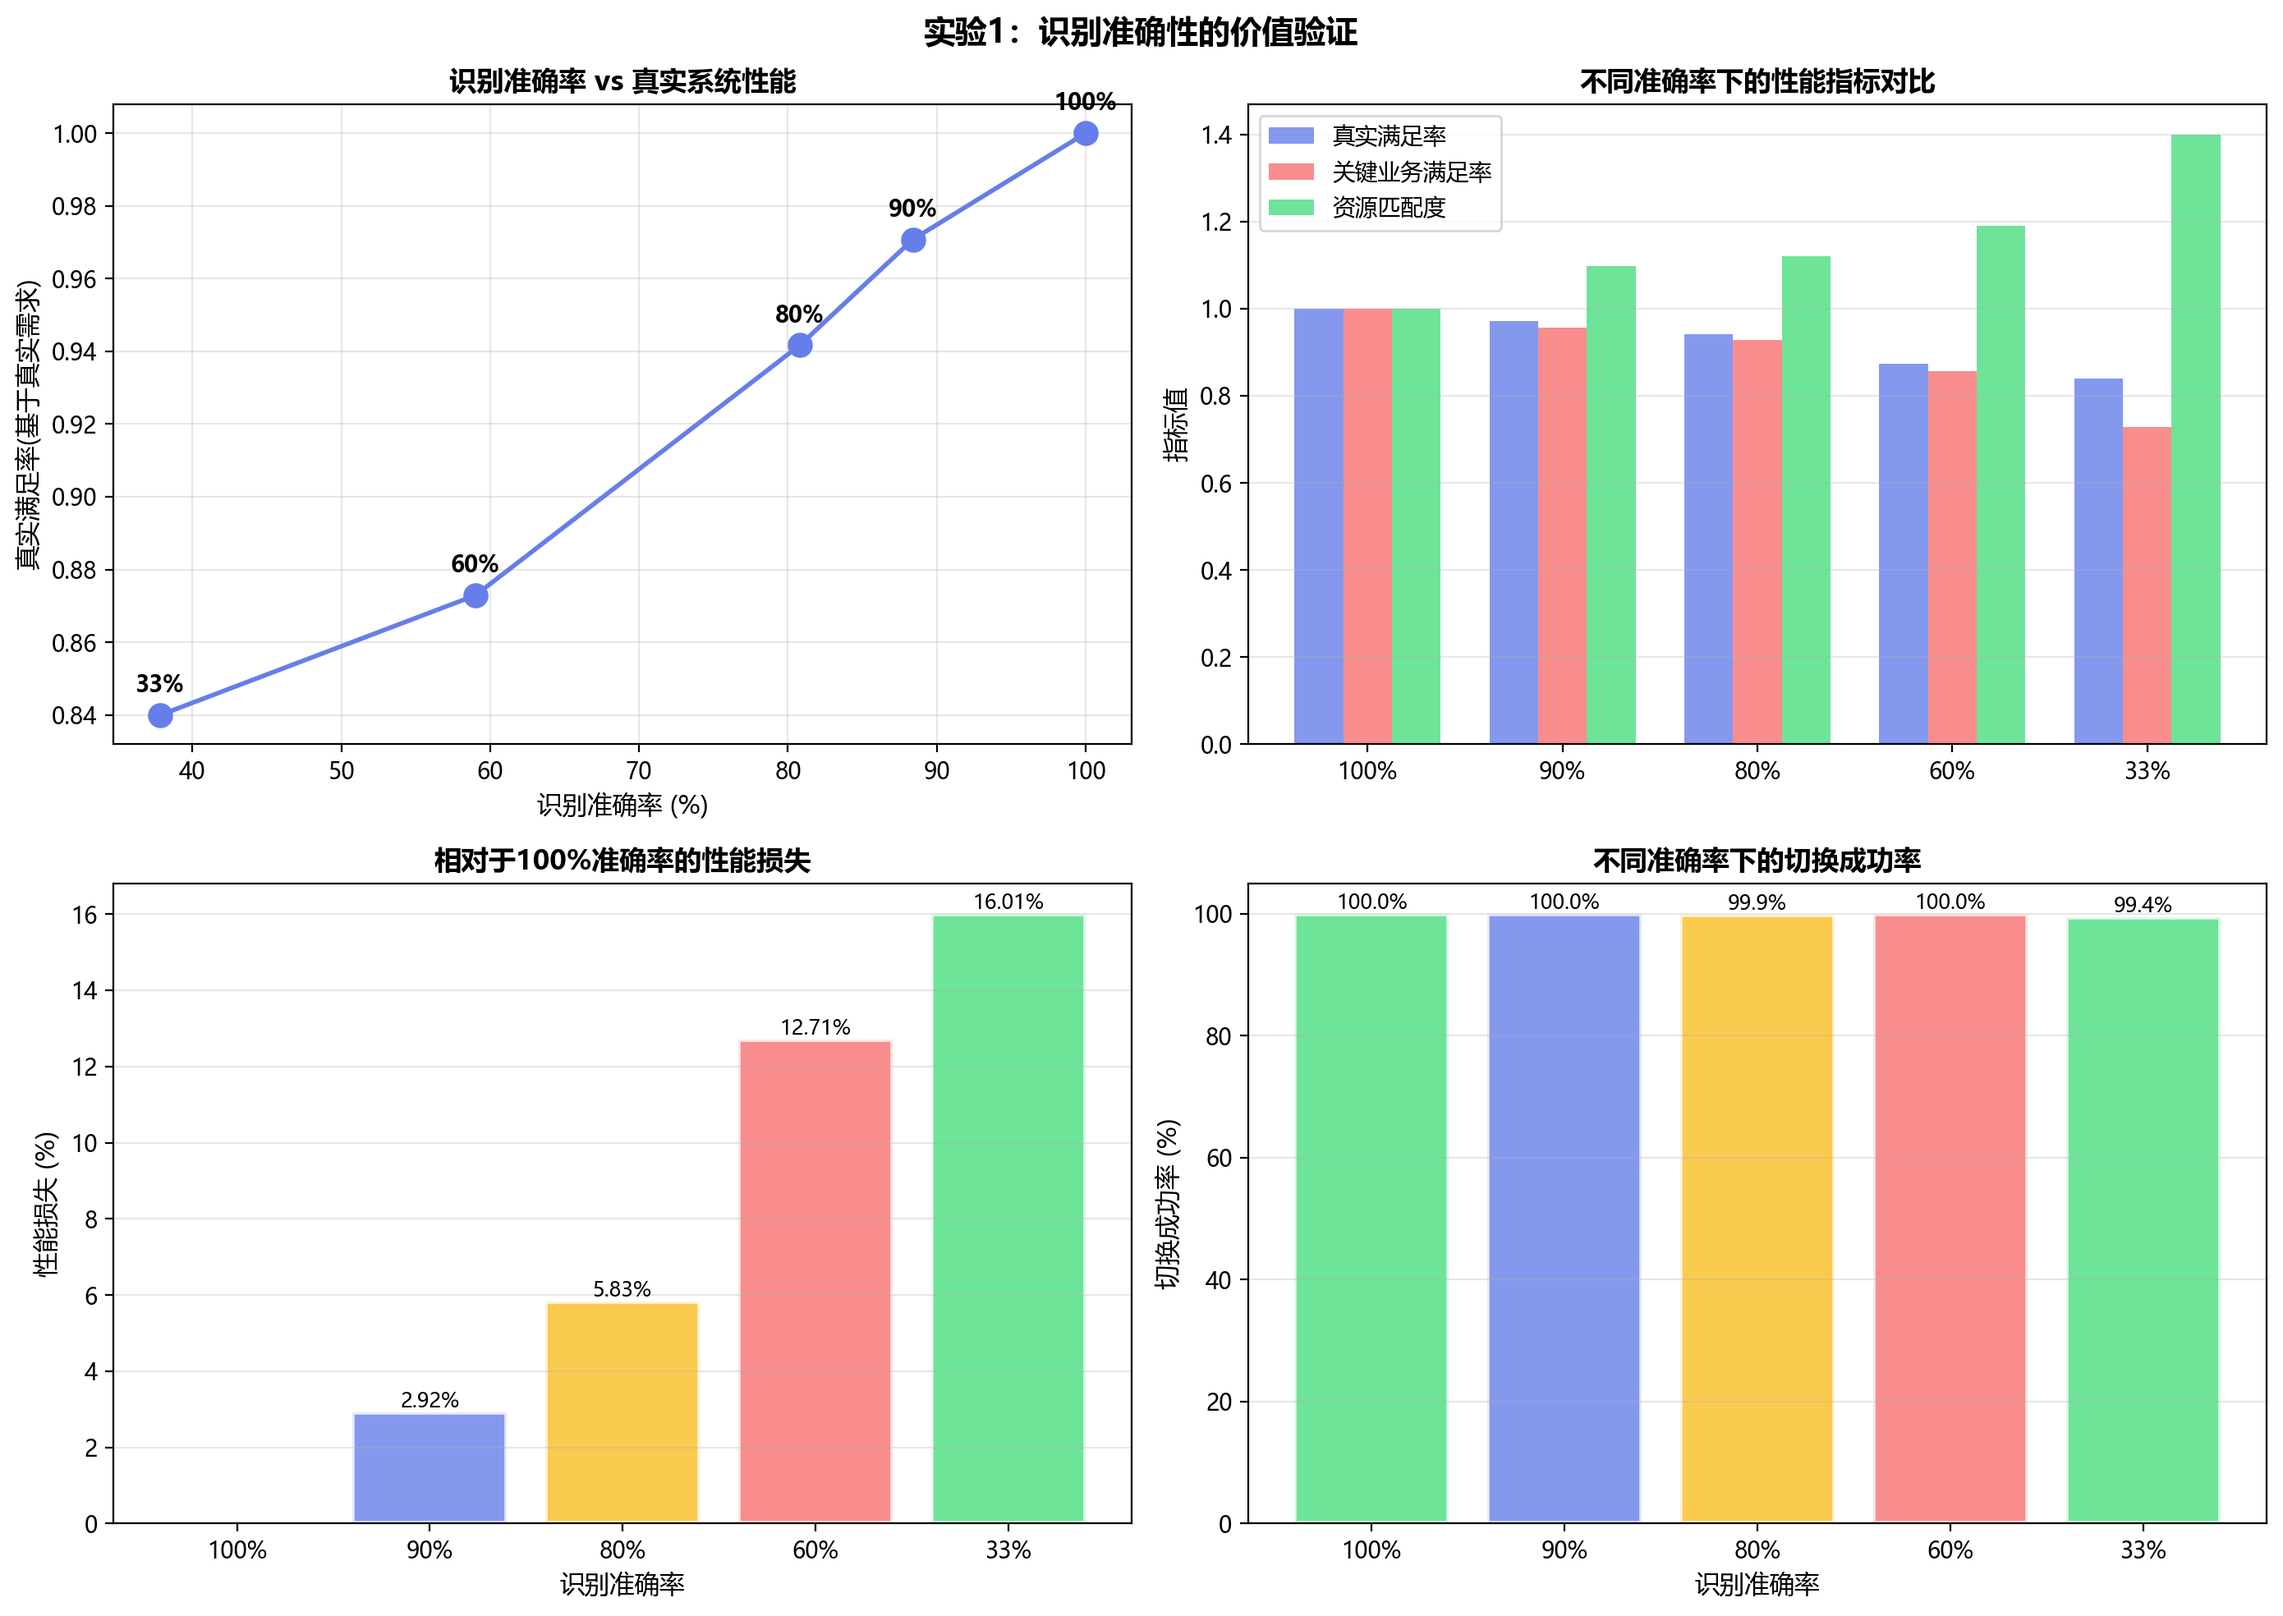
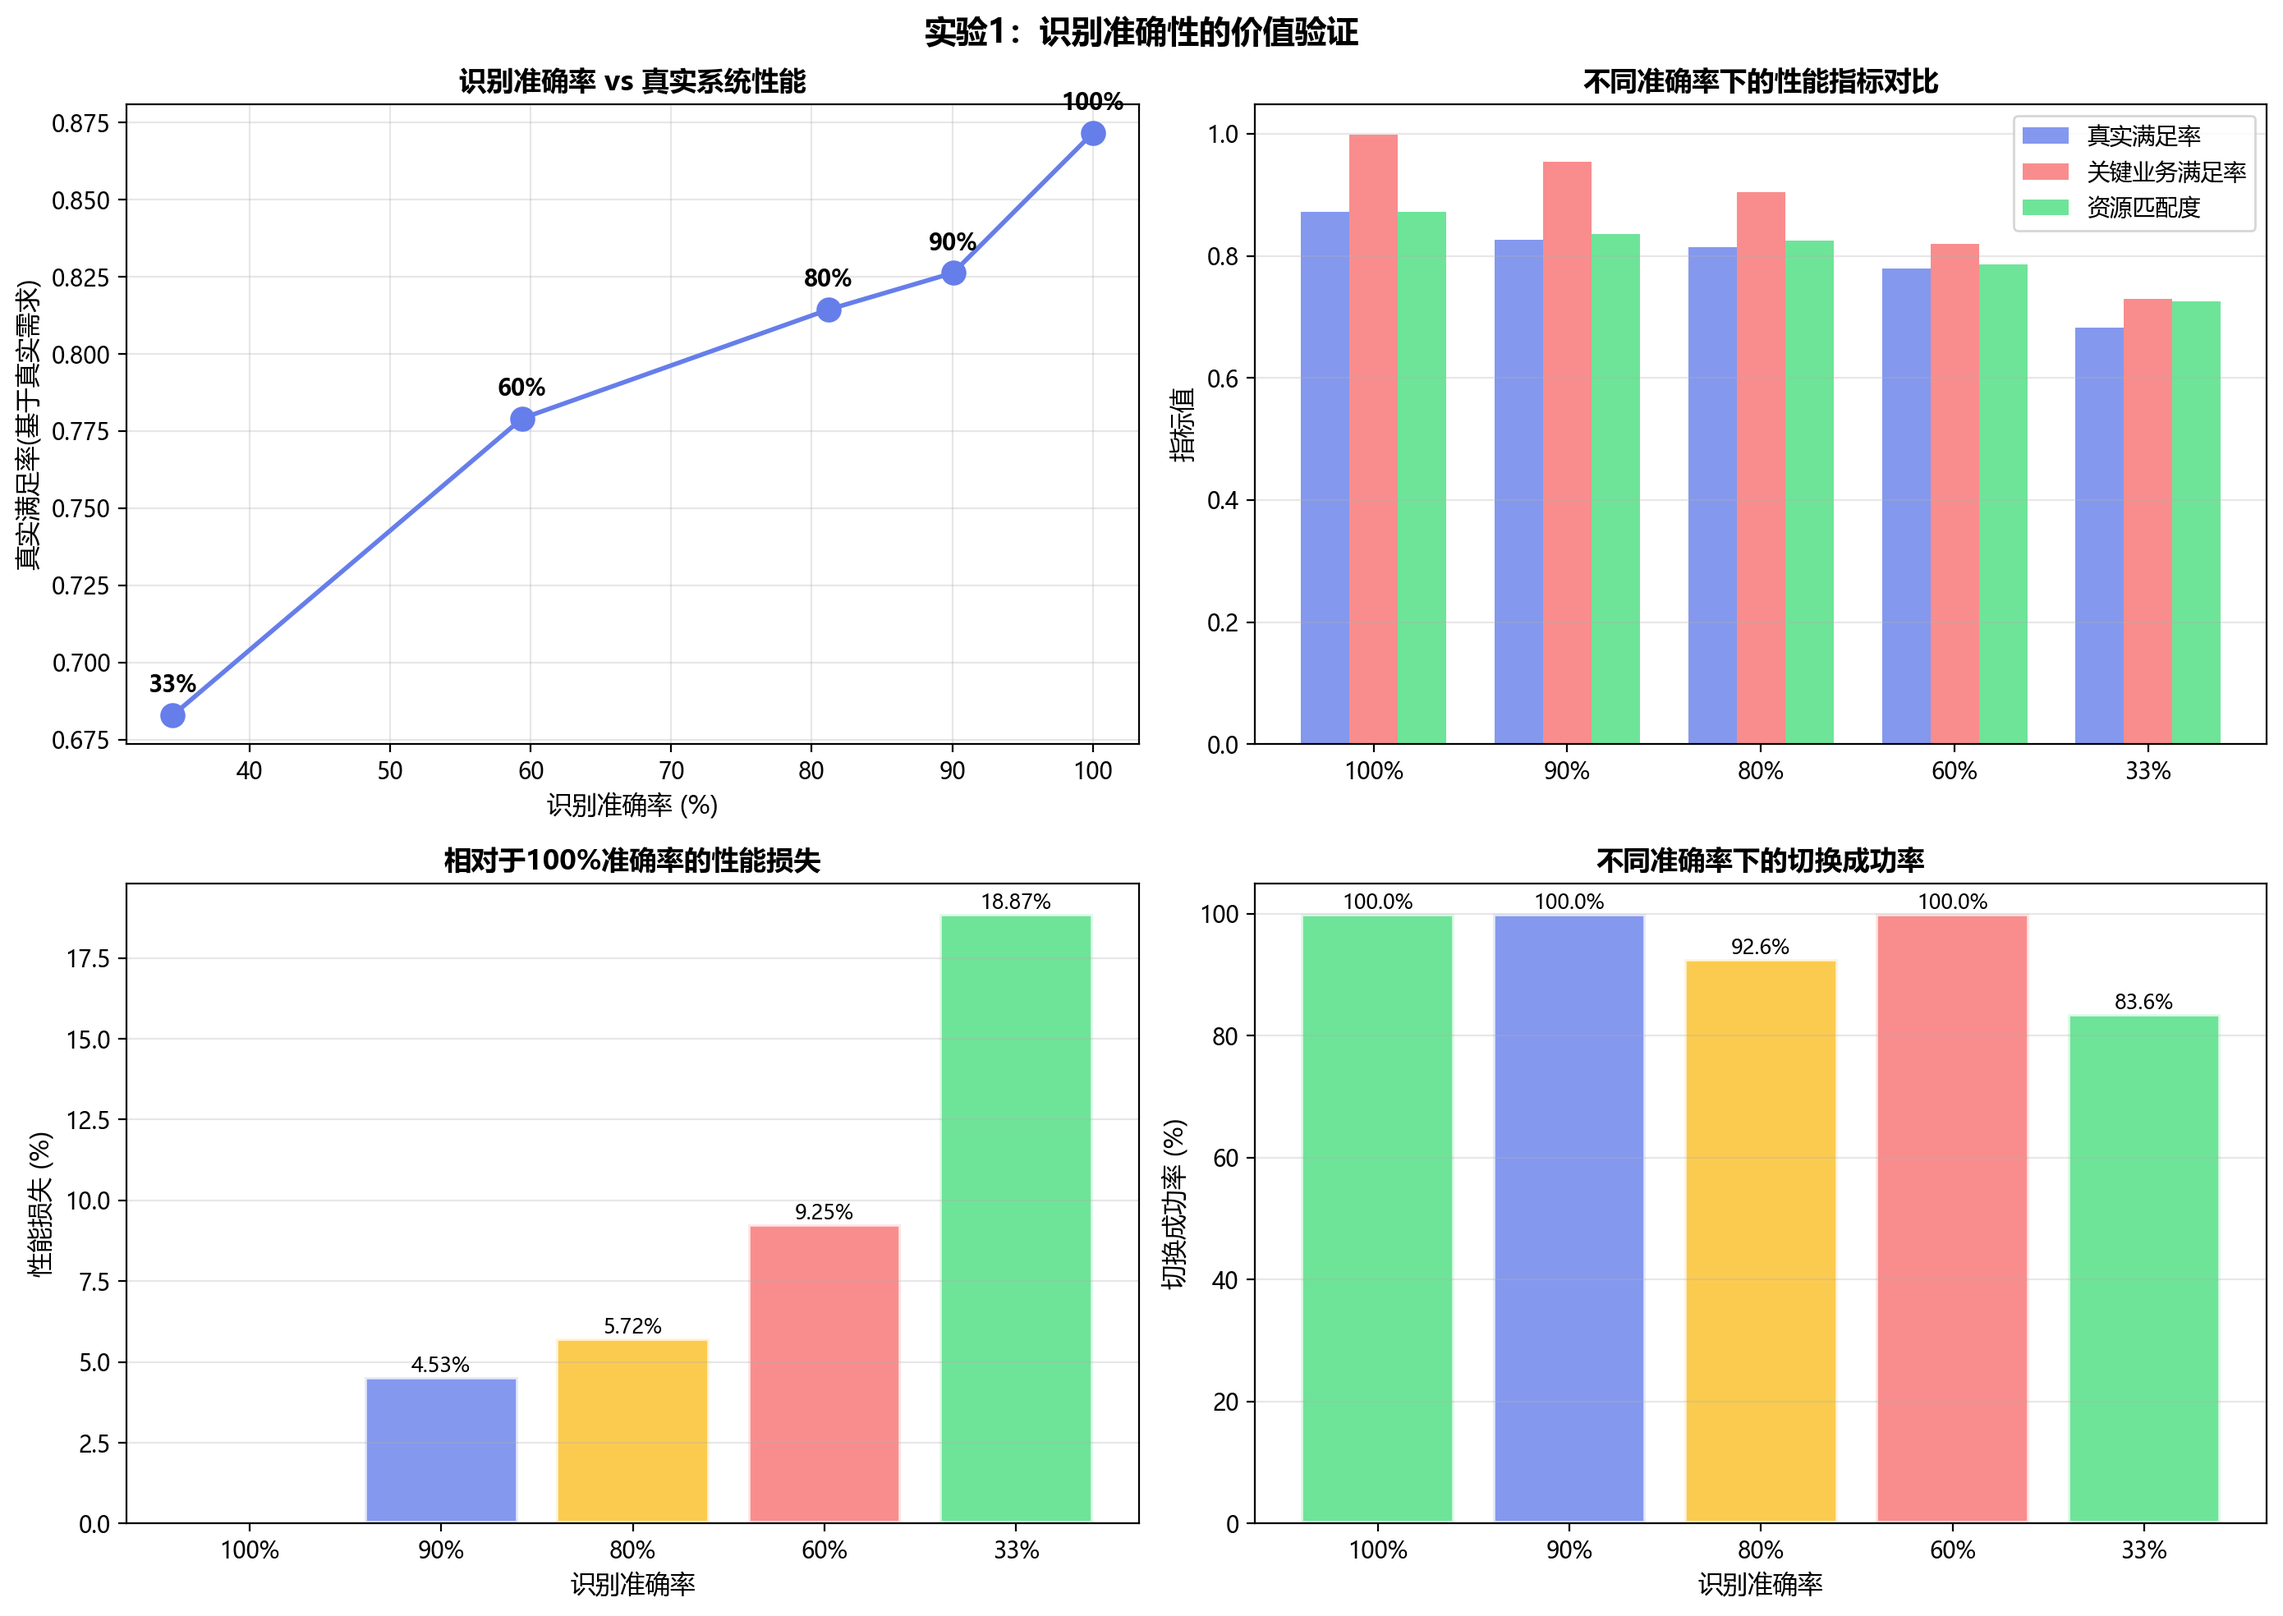
多实验验证仿真规模成效

diff --git a/uav_system/experiments.py b/uav_system/experiments.py
@@ -80,9 +80,10 @@ class Experiment1:
                 condition_seed = GLOBAL_SEED + rep * 10000 + idx * 100
                 set_global_seed(condition_seed)
 
+
                 # 使用不带随机事件的环境进行对比实验
                 env = EnhancedNetworkEnvironment(
-                    num_bs=8, num_uav=50,
+                    num_bs=8, num_uav=150,  # 方案B: 调整为150台
                     recognition_model=None, scaler=None,
                     seed=condition_seed,
                     event_probability=0.0  # 关闭随机事件，专注于识别准确率的影响
@@ -939,7 +940,7 @@ class Experiment2:
             set_global_seed(GLOBAL_SEED + rep)
             for mechanism in Experiment2.MECHANISMS.keys():
                 env = EnhancedNetworkEnvironment(
-                    num_bs=8, num_uav=50,
+                    num_bs=8, num_uav=180,  # 方案B: 调整为180台
                     recognition_model=recognition_model, scaler=scaler,
                     seed=GLOBAL_SEED + rep, event_probability=0.05
                 )
@@ -1626,14 +1627,14 @@ class Experiment4:
                 set_global_seed(GLOBAL_SEED + rep)
 
                 env_enh = EnhancedNetworkEnvironment(
-                    num_bs=10, num_uav=80,
+                    num_bs=8, num_uav=180,  # 方案B: 调整为8基站180台
                     recognition_model=recognition_model, scaler=scaler,
                     seed=GLOBAL_SEED + rep, scenario=scenario, event_probability=0.05
                 )
                 algo_enh = EnhancedHandoverAlgorithm(env_enh)
 
                 env_trad = EnhancedNetworkEnvironment(
-                    num_bs=10, num_uav=80,
+                    num_bs=8, num_uav=180,  # 方案B: 调整为8基站180台
                     recognition_model=recognition_model, scaler=scaler,
                     seed=GLOBAL_SEED + rep, scenario=scenario, event_probability=0.05
                 )
